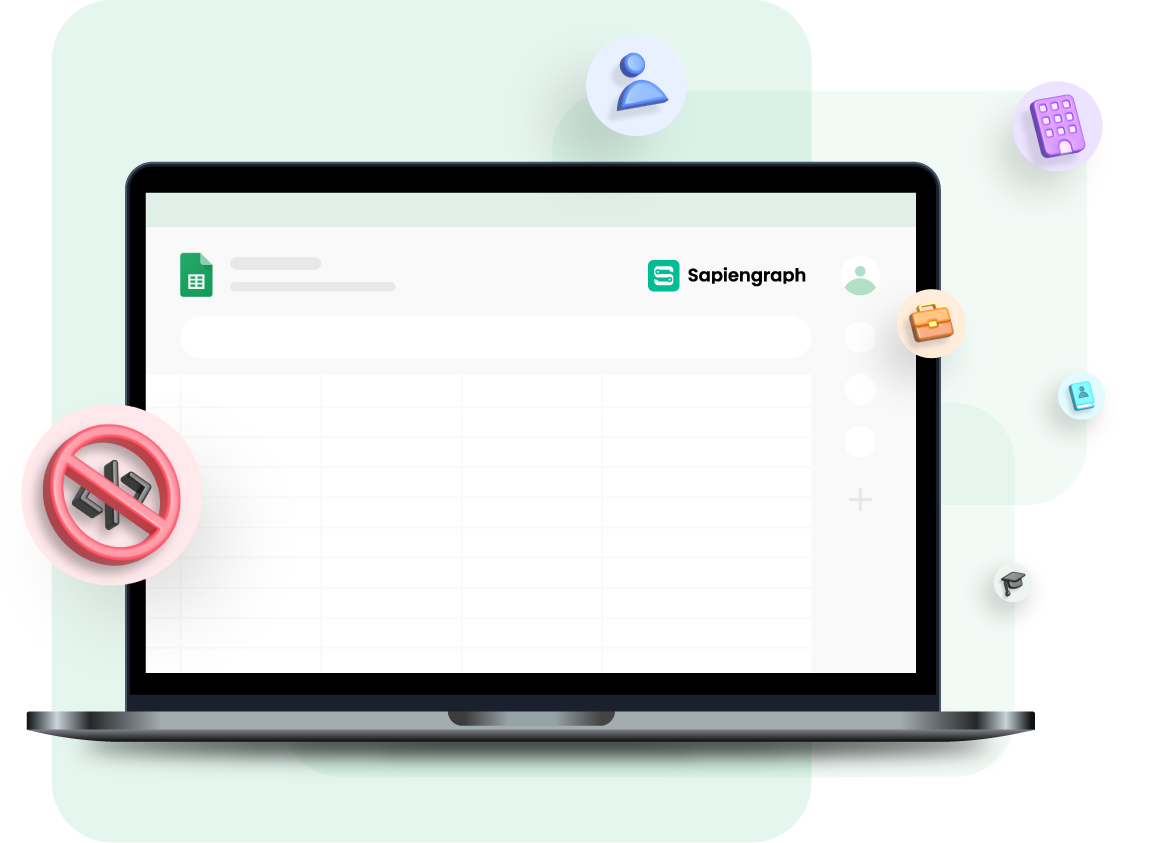
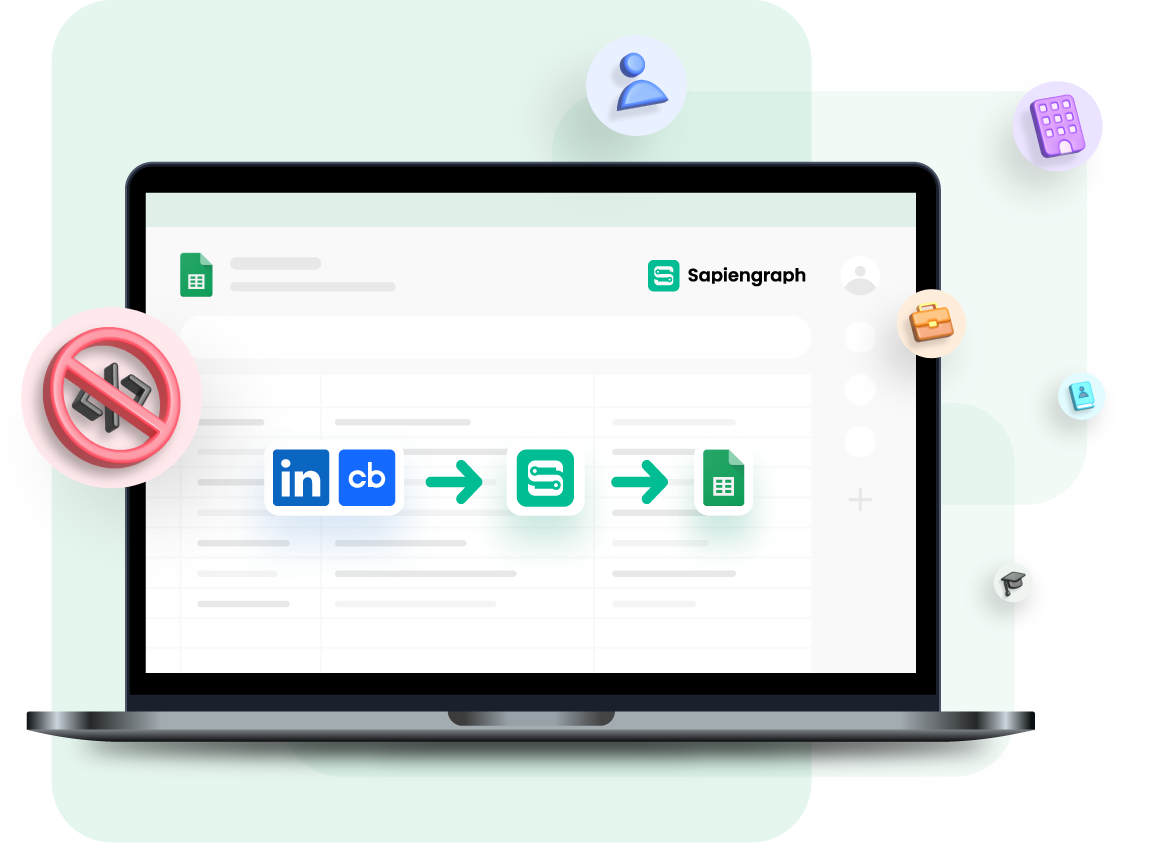
update illustartion

diff --git a/index.html b/index.html
@@ -84,7 +84,7 @@
             </a>
 
             <a class="navbar-btn btn btn-pill btn-sm btn-outline-white text-white lift ml-auto" href="#!" target="_blank">
-            Install Browser extension <i class="fe fe-arrow-right"></i>
+            Install Sheets Add-ons <i class="fe fe-arrow-right"></i>
             </a>
 
           </div>
@@ -101,7 +101,7 @@
     <section class="bg-white pt-9 pt-lg-10 pt-xl-11 pb-7 pb-md-11">
       <div class="container">
 
-        <div class="row align-items-center mt-1">
+        <div class="row align-items-center mt-3">
           <div class="col-12 col-md-7 col-lg-6 mb-9 mb-sm-0" data-aos="fade-up">
 
             <!-- Heading -->
@@ -117,16 +117,16 @@
 
             <!-- Buttons -->
             <div class="">
-              <a href="overview.html" class="btn btn-pill btn-success shadow lift mr-1">
-                Install Browser Extension<i class="fe fe-arrow-right ml-3"></i>
+              <a href="#!" class="btn btn-pill btn-success shadow lift mr-1" data-aos="fade-up">
+                Install Sheets Add-ons<i class="fe fe-arrow-right ml-3"></i>
               </a>
             </div>
 
           </div>
-          <div class="col-12 col-md-5 col-lg-6 mt-2">
+          <div class="col-12 col-md-5 col-lg-6 mt-n2" data-aos="fade-up" data-aos-delay="250">
 
             <!-- Image -->
-            <img src="assets/img/illustrations/Sapiengraph-illustration-1_1.png" class="img-fluid mw-md-130 mw-lg-150 mw-xl-160 mb-6 mb-md-0" alt="..." data-aos="fade-up" data-aos-delay="100">
+            <img src="assets/img/illustrations/Sapiengraph-illustration-1_1.png" class="img-fluid mw-md-130 mw-lg-150 mw-xl-160 mb-6 mb-md-0" alt="...">
 
           </div>
         </div> <!-- / .row -->
@@ -430,14 +430,14 @@
     </div>
 
     <!-- THIRD FOLD-->
-    <section class="pt-9 pb-11" style="background-color: #ffffff;">
+    <section class="pt-9 pt-md-9 pb-11" style="background-color: #ffffff;">
       <div class="container">
-        <div class="row justify-content-between mb-10">
+        <div class="row justify-content-between mb-2">
 
-          <div class="col-12 col-md-6 order-md-2 mb-6 mb-md-0">
+          <div class="col-12 col-md-6 order-md-2 mb-6 mb-md-0 mt-n12">
 
             <!-- Image -->
-            <img class="img-fluid rounded" src="Illustration_landscape_placement-wider.png" data-aos="fade-up">
+            <img class="img-fluid rounded" src="assets/img/illustrations/Sapiengraph-illustration-3_1.png" data-aos="fade-up">
           </div>
 
           <div class="col-12 col-md-5 order-md-1">
@@ -461,7 +461,7 @@
         </div>
         
         <div class="row justify-content-between">
-          <div class="col-10 col-md-4 mb-6 mb-md-0">
+          <div class="col-10 col-md-4 mb-6 mb-md-0" data-aos="fade-up" data-aos-delay="100">
             <div class="d-flex">
               <svg width="27" height="27" viewBox="0 0 24 24" xmlns="http://www.w3.org/2000/svg">
                 <g fill="none" fill-rule="evenodd">
@@ -482,7 +482,7 @@
             </a>
           </div>
         
-          <div class="col-10 col-md-4 mb-6 mb-md-0">
+          <div class="col-10 col-md-4 mb-6 mb-md-0" data-aos="fade-up" data-aos-delay="200">
             <div class="d-flex">
               <svg width="26" height="26" viewBox="0 0 24 24" xmlns="http://www.w3.org/2000/svg"><g fill="none" fill-rule="evenodd"><path d="M0 0h24v24H0z"></path><path d="M13.5 21v-3a1 1 0 00-1-1h-1a1 1 0 00-1 1v3H5V4a2 2 0 012-2h10a2 2 0 012 2v17h-5.5zM9 4a1 1 0 00-1 1v1a1 1 0 001 1h1a1 1 0 001-1V5a1 1 0 00-1-1H9zm5 0a1 1 0 00-1 1v1a1 1 0 001 1h1a1 1 0 001-1V5a1 1 0 00-1-1h-1zM9 8a1 1 0 00-1 1v1a1 1 0 001 1h1a1 1 0 001-1V9a1 1 0 00-1-1H9zm0 4a1 1 0 00-1 1v1a1 1 0 001 1h1a1 1 0 001-1v-1a1 1 0 00-1-1H9zm5 0a1 1 0 00-1 1v1a1 1 0 001 1h1a1 1 0 001-1v-1a1 1 0 00-1-1h-1z" fill="#42BA96"></path><rect fill="#FFF" x="13" y="8" width="3" height="3" rx="1"></rect><path d="M4 21h16a1 1 0 011 1v.4a.6.6 0 01-.6.6H3.6a.6.6 0 01-.6-.6V22a1 1 0 011-1z" fill="#42BA96" opacity=".3"></path></g></svg>
               <h3 class=" ml-2 font-weight-bold">
@@ -495,7 +495,7 @@
             </a>
           </div>
 
-          <div class="col-10 col-md-4">
+          <div class="col-10 col-md-4" data-aos="fade-up" data-aos-delay="300">
             <div class="d-flex">
               <svg width="26" height="26" viewBox="0 0 24 24" xmlns="http://www.w3.org/2000/svg"><g fill="none" fill-rule="evenodd"><path d="M0 0h24v24H0z"></path><path d="M18 2h2a3 3 0 013 3v14a3 3 0 01-3 3h-2V2z" fill="#42BA96" opacity=".3"></path><path d="M5 2h12a3 3 0 013 3v14a3 3 0 01-3 3H5a1 1 0 01-1-1V3a1 1 0 011-1zm7 9a2 2 0 100-4 2 2 0 000 4zm-5 5.5c-.011.162.265.5.404.5h9.177c.418 0 .424-.378.418-.5-.163-3.067-2.348-4.5-5.008-4.5-2.623 0-4.775 1.517-4.99 4.5z" fill="#42BA96"></path></g></svg>
               <h3 class=" ml-2 font-weight-bold">
@@ -1073,7 +1073,7 @@
             </p>
 
             <a href="#!" class="btn btn-sm btn-pill btn-white text-success lift mr-1 px-4 py-2">
-              Install Browser Extension<i class="fe fe-arrow-right ml-2"></i>
+              Install Sheets Add-ons<i class="fe fe-arrow-right ml-2"></i>
             </a>
 
           </div> 
